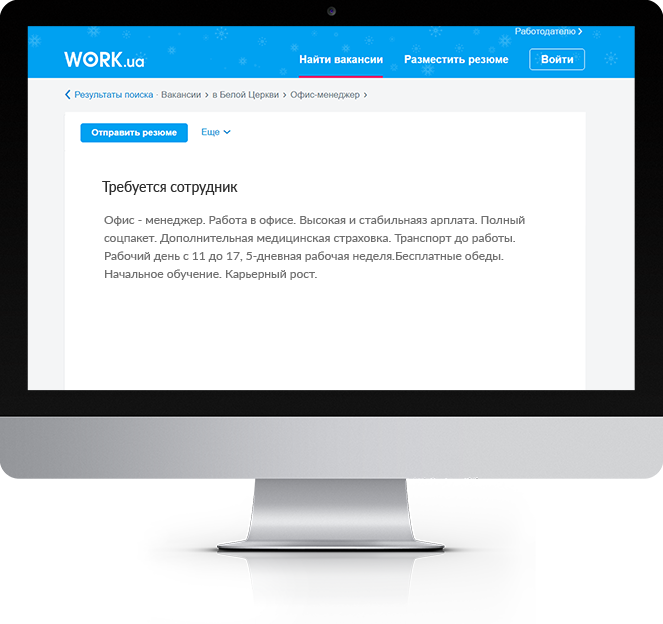
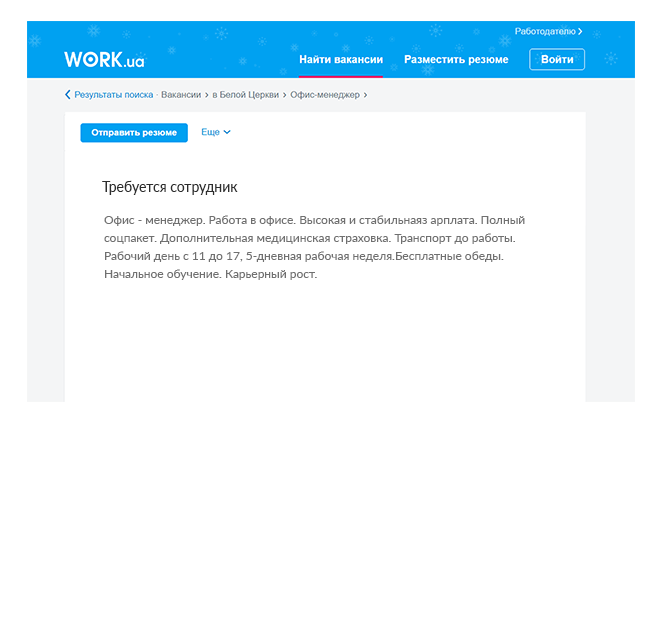
slider changed on tech page

Changed region(s): [[0.0, 0.0, 1.0, 0.9135]]

diff --git a/css/technology-style.css b/css/technology-style.css
@@ -31,6 +31,15 @@
     margin-left: -4px;
     line-height: 1.7;
 }
+p.monitor-container {
+	position: relative;
+	margin-top: 50px;
+}
+.monitor-container #monitor{
+	position: absolute;
+	top: 31px;
+}
+
 .two-trees{
 	position: relative;
 }

diff --git a/technology.php b/technology.php
@@ -54,7 +54,10 @@ get_header(); // подключаем header.php ?>
 					<div class="post-exaples" data-order='0'>Хорошее</div>
 					<div class="post-exaples" data-order='1'>Плохое</div>
 					<div class="post-exaples active-example" data-order='2'>Плохое</div>
-					<p><img src="<?php echo get_template_directory_uri();?>/img/monitor.png" id='monitor'></p>
+					<p class='monitor-container'>
+						<img src="<?php echo get_template_directory_uri();?>/img/monitor-empty.png" class='monitor'>
+						<img src="<?php echo get_template_directory_uri();?>/img/monitor.png" id='monitor' class='monitor'>
+					</p>
 
 					<p>Большинство компаний проигрывают игру в найм еще до того, как начинают играть, потому что используют в объявлениях одну и ту же приманку. Как следствие среди привлеченных людей нет тех, кто им нужен. Поэтому как бы вы дальше не тестировали и не интервьюировали кандидатов - толку будет мало.</p>
 				</div>
